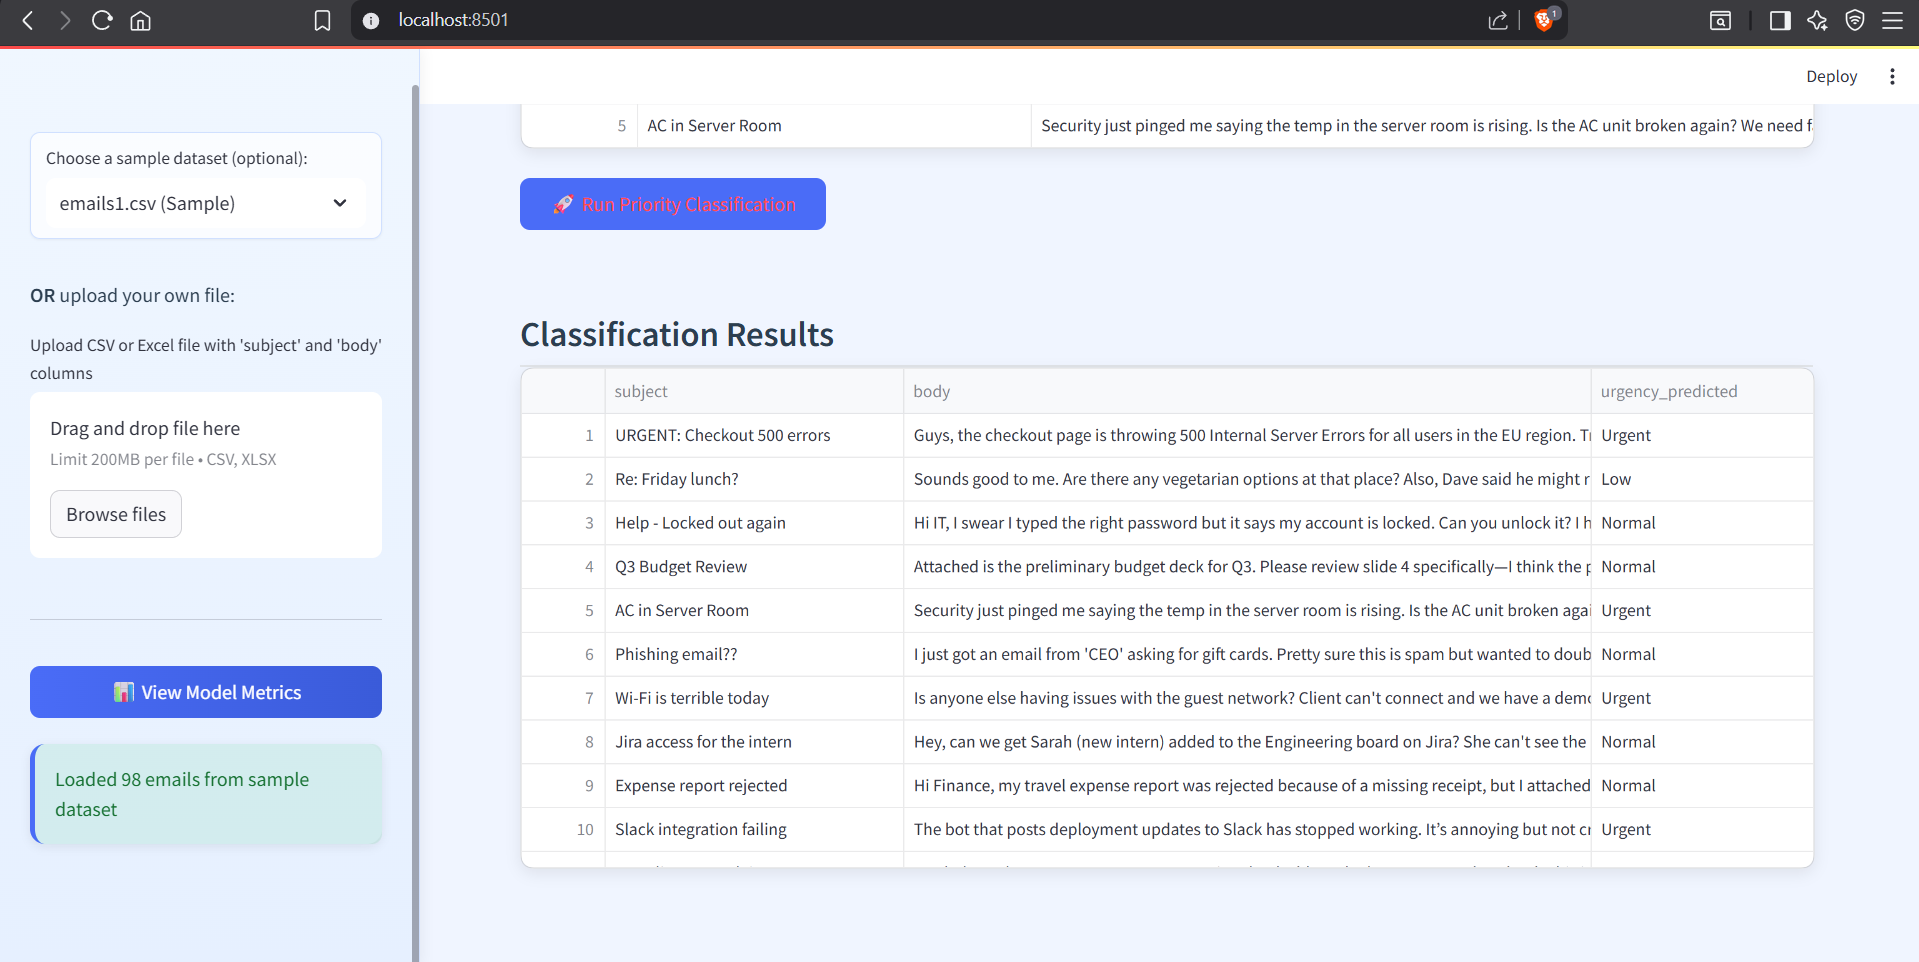
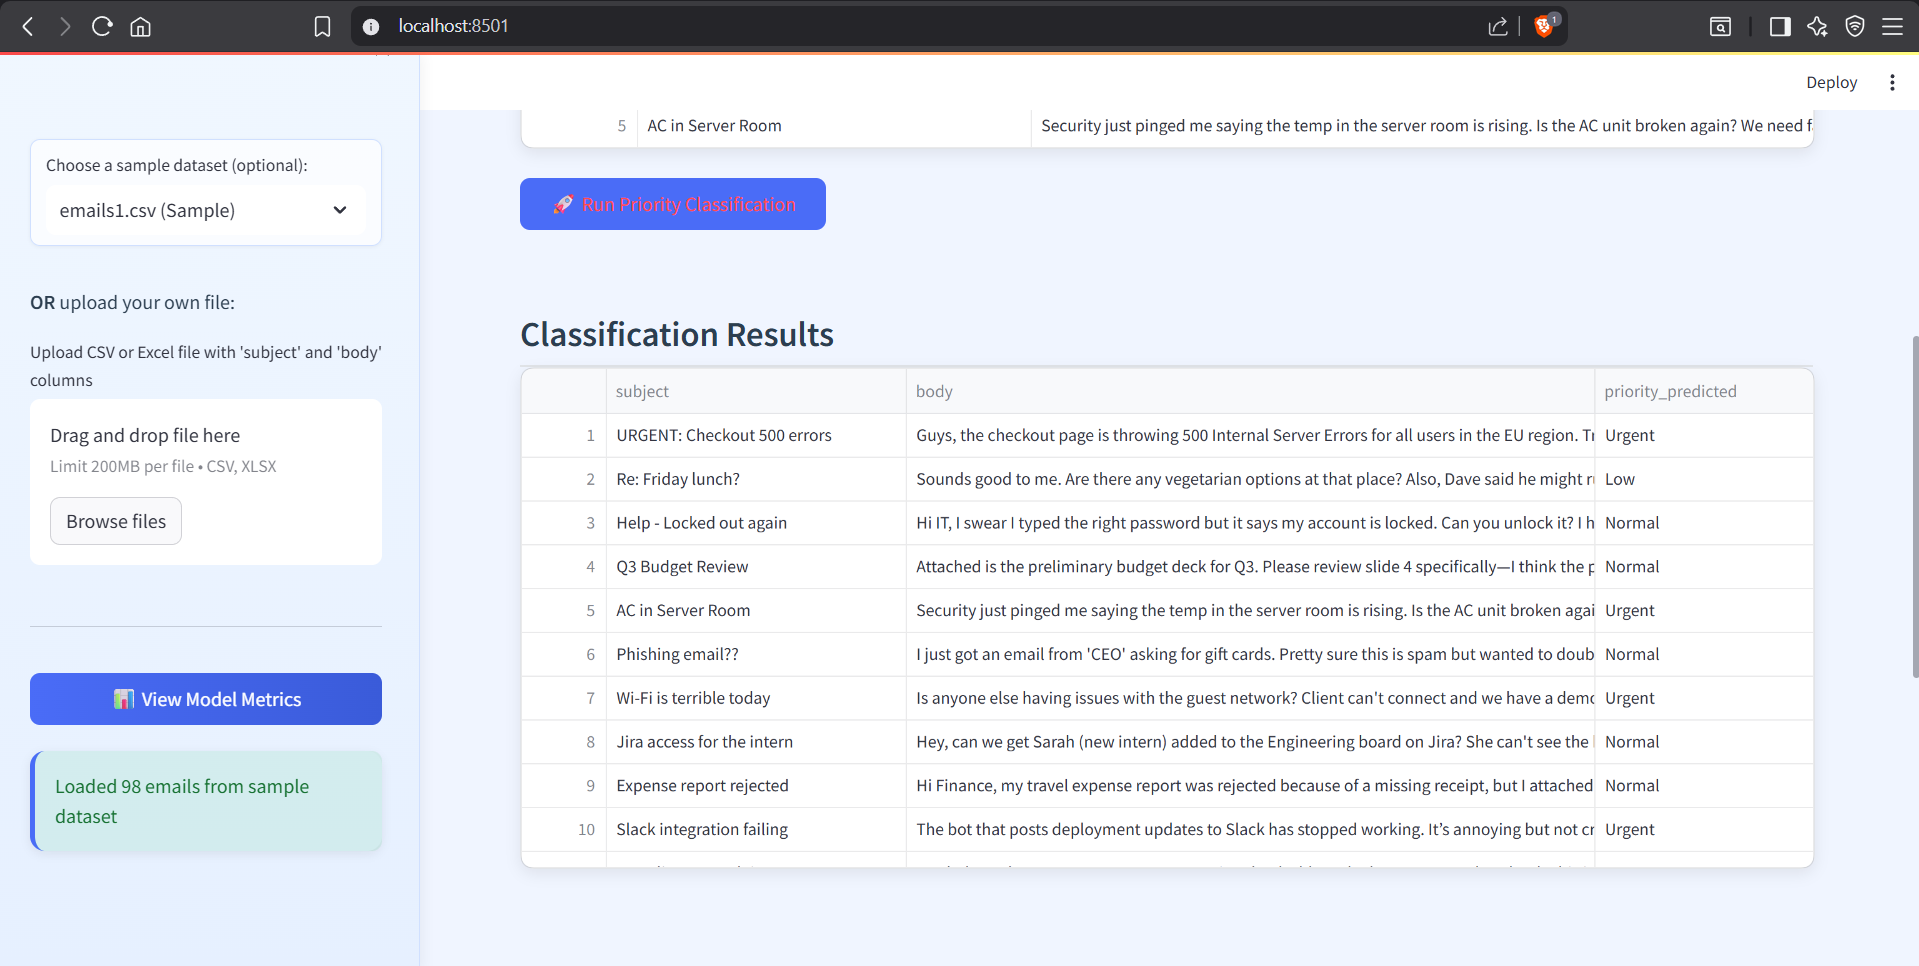
Updated the overall codebase

diff --git a/app.py b/app.py
@@ -25,11 +25,11 @@ def get_embedding_model():
 
 def get_classifier():
     """
-    Load the trained classifier from models/urgency_classifier.pkl
+    Load the trained classifier from models/priority_classifier.pkl
     and keep it in session_state.
     """
     if "classifier" not in st.session_state:
-        model_path = os.path.join("models", "urgency_classifier.pkl")
+        model_path = os.path.join("models", "priority_classifier.pkl")
         if not os.path.exists(model_path):
             # This will show a clear error in the UI and stop execution
             st.error(
@@ -57,7 +57,7 @@ def preprocess_dataframe(df: pd.DataFrame) -> pd.DataFrame:
 
 def predict_urgency(df: pd.DataFrame) -> pd.DataFrame:
     """
-    Given a dataframe with 'text' column, add 'urgency_predicted'.
+    Given a dataframe with 'text' column, add 'priority_predicted'.
     """
     model = get_embedding_model()
     clf = get_classifier()
@@ -67,7 +67,7 @@ def predict_urgency(df: pd.DataFrame) -> pd.DataFrame:
     preds = clf.predict(embeddings)
 
     df = df.copy()
-    df["urgency_predicted"] = preds
+    df["priority_predicted"] = preds
     return df
 
 
@@ -368,14 +368,14 @@ def main():
 
                         st.subheader("Classification Results")
                         # Show classification results with index starting from 1
-                        results_df = df_pred[["subject", "body", "urgency_predicted"]].head(50).copy()
+                        results_df = df_pred[["subject", "body", "priority_predicted"]].head(50).copy()
                         results_df.index = range(1, len(results_df) + 1)
                         # Use st.dataframe with use_container_width=True to match the preview width
                         st.dataframe(results_df, use_container_width=True)
 
                         # Summary counts
                         st.subheader("Priority Distribution")
-                        counts = df_pred["urgency_predicted"].value_counts().reset_index()
+                        counts = df_pred["priority_predicted"].value_counts().reset_index()
                         counts.columns = ["urgency", "count"]
                         # Add some vertical spacing and use container width for the chart
                         st.markdown("<div style='margin: 20px 0;'></div>", unsafe_allow_html=True)

diff --git a/train_model.py b/train_model.py
@@ -16,7 +16,7 @@ def main():
     df = load_and_prepare_data(data_path)
 
     X_text = df["text"].tolist()
-    y = df["urgency"].tolist()
+    y = df["priority"].tolist()
 
     # 2. Load sentence embedding model (MiniLM)
     print("Loading embedding model (all-MiniLM-L6-v2)...")
@@ -42,7 +42,7 @@ def main():
 
     # 6. Save classifier
     os.makedirs("models", exist_ok=True)
-    model_path = os.path.join("models", "urgency_classifier.pkl")
+    model_path = os.path.join("models", "priority_classifier.pkl")
     joblib.dump(clf, model_path)
     print(f"Model saved to {model_path}")
 

diff --git a/preprocessing.py b/preprocessing.py
@@ -20,13 +20,13 @@ def clean_text(text: str) -> str:
 
 def load_and_prepare_data(csv_path: str) -> pd.DataFrame:
     """
-    Load CSV with columns: subject, body, urgency
+    Load CSV with columns: subject, body, priority
     Combine subject + body and clean the text.
     """
     df = pd.read_csv(csv_path)
 
     # Make sure required columns exist
-    required_cols = {"subject", "body", "urgency"}
+    required_cols = {"subject", "body", "priority"}
     if not required_cols.issubset(df.columns):
         raise ValueError(f"CSV must contain columns: {required_cols}")
 

diff --git a/README.md b/README.md
@@ -50,10 +50,10 @@ email-priority-classification-system/
 ├── requirements.txt
 ├── LICENSE
 ├── README.md
-├──Screenshot_landing_page.png
-├──Screenshot_sample_dataset.png
-├──Screenshot_classification_result.png
-├──Screenshot_priority_distribution.png
+├── Screenshot_landing_page.png
+├── Screenshot_sample_dataset.png
+├── Screenshot_classification_result.png
+├── Screenshot_priority_distribution.png
 └── statement.md
 
 
@@ -116,5 +116,5 @@ This project is released under the MIT License.
 
 ## ✍ Author
 
-Riya Sinha
-25BOE10080
+- Riya Sinha
+- 25BOE10080
